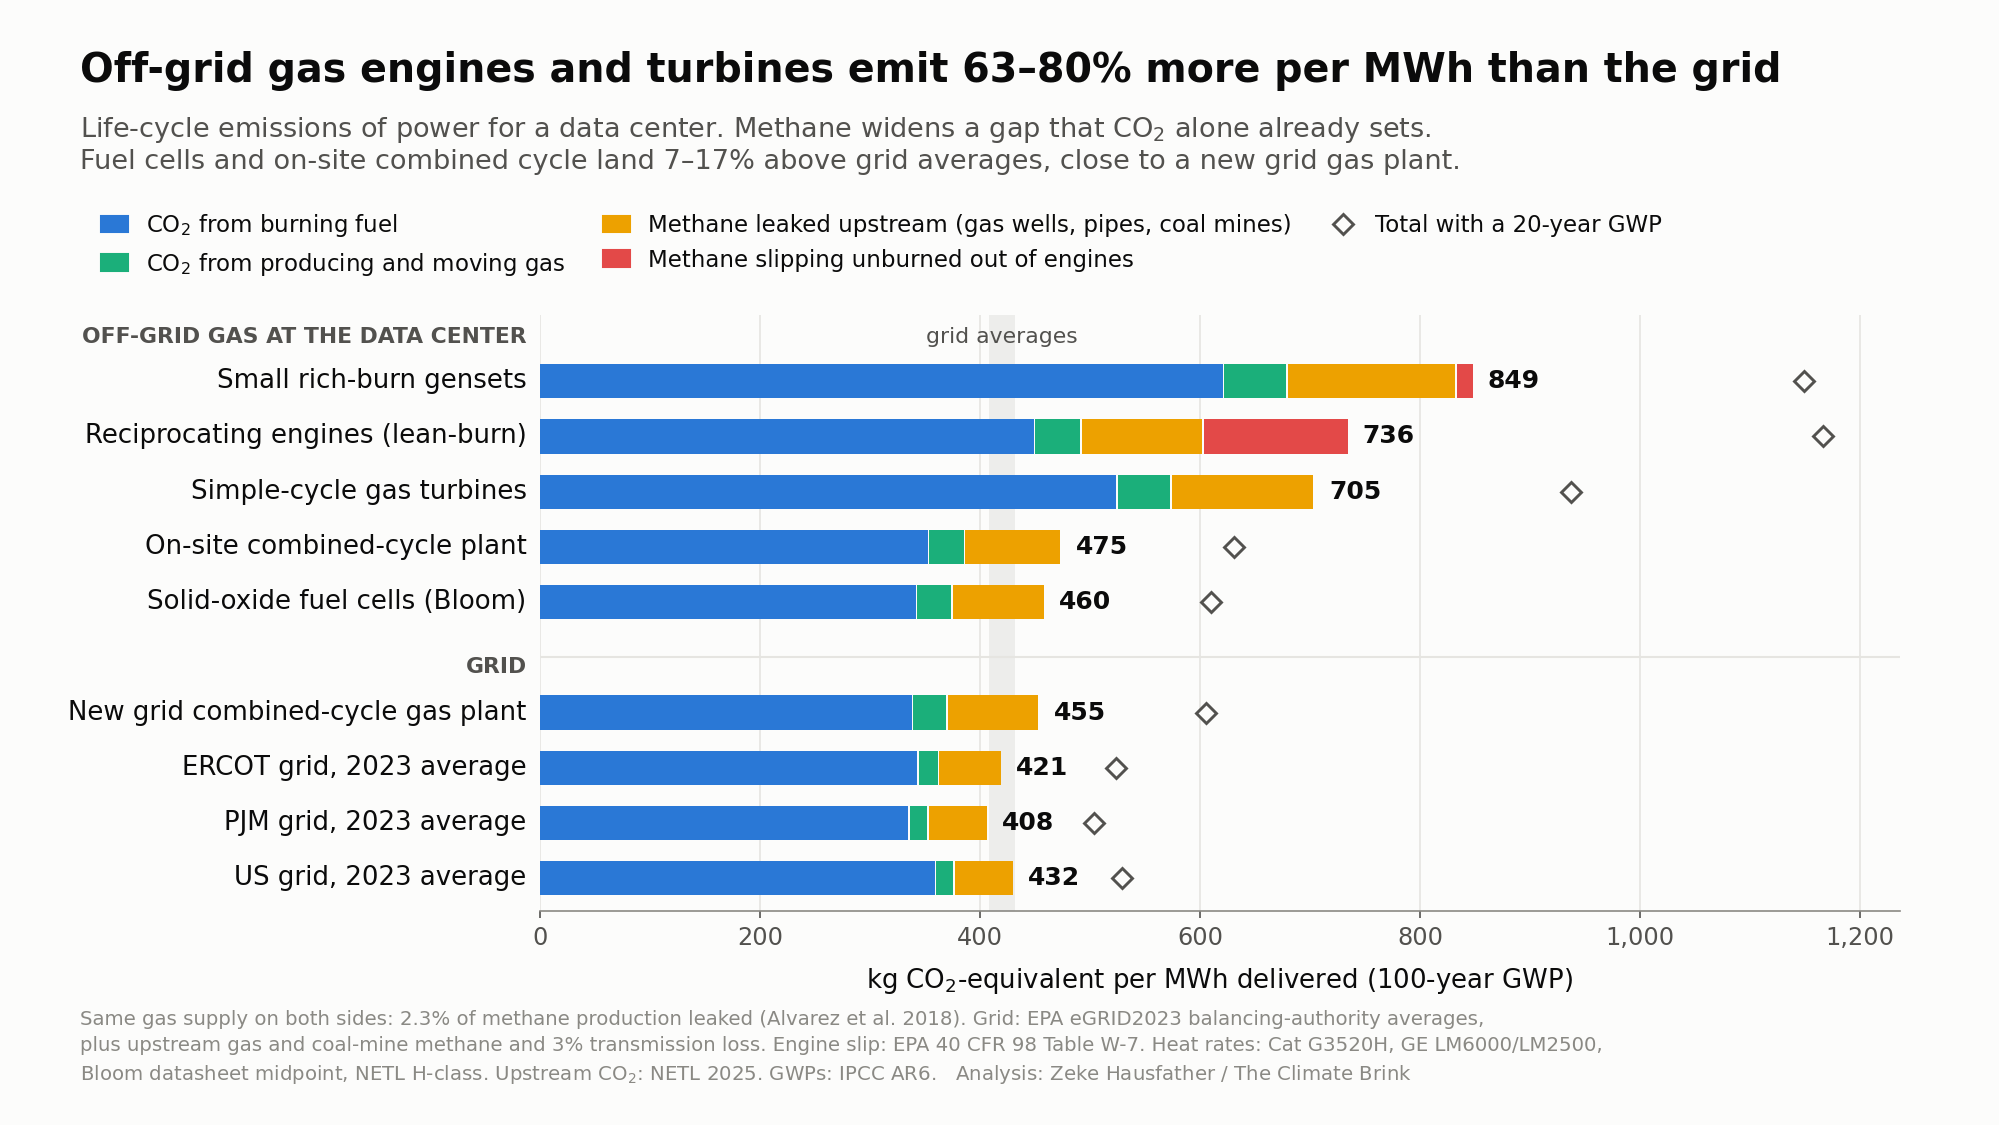
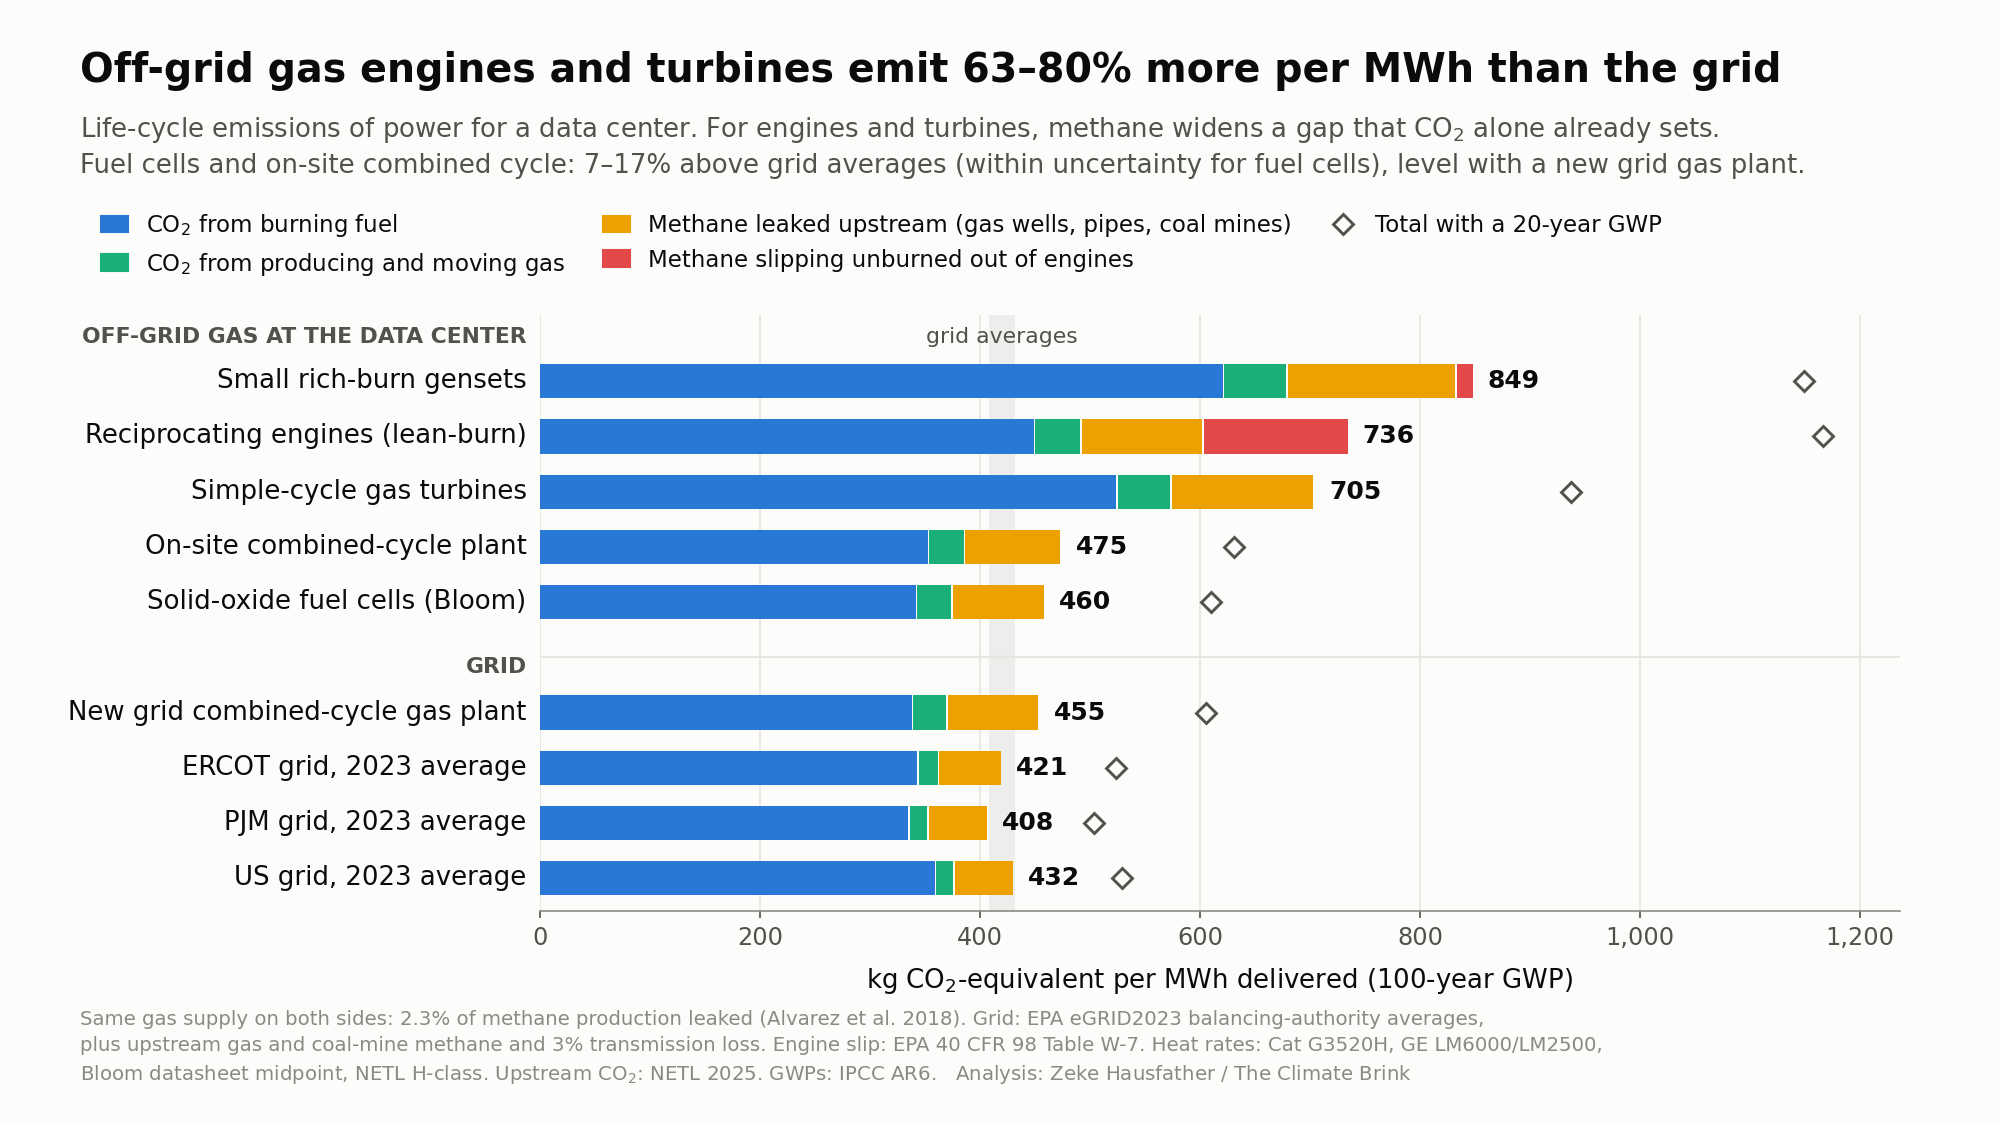
Primary test output, prediction vs outcome, draft post, README, license

Changed region(s): [[0.031, 0.0933, 0.8994, 0.1556]]

diff --git a/scripts/cases.py b/scripts/cases.py
@@ -150,7 +150,7 @@ be.to_csv(OUT / 'breakeven.csv', index=False)
 # ---------------------------------------------------------------- 4. within-cell correlated Monte Carlo (primary cells)
 rng = np.random.default_rng(20261024)
 N = 20000
-L_d = np.clip(rng.normal(L_PRIMARY, 0.0035, N), 0.001, None)       # Alvarez 2.3% (+0.4/-0.3)
+L_d = np.clip(rng.normal(L_PRIMARY, 0.0035, N), 0.001, None)       # judgment spread (wider than Alvarez's 95% CI +0.4/-0.3, sd~0.18%)
 mf_d = rng.uniform(0.884, 0.970, N)
 f_d = rng.uniform(0.08, 0.11, N)
 gch4_d = np.clip(rng.normal(29.8, 11 / 1.645, N), 5, None)         # AR6 GWP100 fossil CH4 +/- 11 (5-95%)
@@ -184,6 +184,19 @@ dec['state_co2_band'] = [band_verdict(a, b, w) for a, b, w in zip(dec.btm_co2, d
 dec['state_full_band'] = [band_verdict(a, b, w) for a, b, w in zip(dec.btm_full, dec.ref_full, dec.tie_band)]
 dec.to_csv(OUT / 'decision_table.csv', index=False, float_format='%.3f')
 
+# pre-registered primary test (PLAN §6): BTM is worse than the grid iff it is 'above' both reference A and reference B
+prim = []
+for (reg, c), g in dec.groupby(['region', 'case'], sort=False):
+    a_, b_ = g.set_index('reference').loc['A'], g.set_index('reference').loc['B']
+    prim.append(dict(region=reg, case=c,
+                     co2_only_vs_A=a_.state_co2_band, co2_only_vs_B=b_.state_co2_band,
+                     worse_than_grid_co2_only=(a_.state_co2_band == 'above') and (b_.state_co2_band == 'above'),
+                     full_vs_A=a_.state_full_band, full_vs_B=b_.state_full_band,
+                     worse_than_grid_full=(a_.state_full_band == 'above') and (b_.state_full_band == 'above'),
+                     p_above_A=a_.p_btm_above, p_above_B=b_.p_btm_above))
+prim = pd.DataFrame(prim)
+prim.to_csv(OUT / 'primary_test.csv', index=False, float_format='%.3f')
+
 # ---------------------------------------------------------------- 5. one-at-a-time sensitivities (efficient cases)
 sens = []
 for c in ['Fuel cells (Bloom SOFC)', 'Combined cycle (on site)']:
@@ -214,6 +227,7 @@ pd.DataFrame(sens).to_csv(OUT / 'sensitivities.csv', index=False, float_format='
 
 if __name__ == '__main__':
     pd.set_option('display.width', 250, 'display.max_columns', 30, 'display.max_rows', 200)
+    print(prim.to_string())
     print(dec[['region', 'reference', 'case', 'rel_gap_co2', 'rel_gap_full', 'tie_band', 'state_co2_band', 'state_full_band',
                'gap_from_ch4', 'p_btm_above']].round(3).to_string())
     print(be[(be.gwp == 'AR6_20')].to_string())

diff --git a/scripts/make_figure.py b/scripts/make_figure.py
@@ -95,9 +95,9 @@ eff = d[d.case.isin(['Fuel cells (Bloom SOFC)', 'Combined cycle (on site)'])]
 elo, ehi = [int(v * 100 + 0.5) for v in (eff.rel_gap_full.min(), eff.rel_gap_full.max())]
 fig.text(0.04, 0.955, f'Off-grid gas engines and turbines emit {lo:.0f}–{hi:.0f}% more per MWh than the grid',
          fontsize=19, fontweight='bold', color=INK, va='top')
-fig.text(0.04, 0.898, f'Life-cycle emissions of power for a data center. Methane widens a gap that CO$_2$ alone already sets.\n'
-         f'Fuel cells and on-site combined cycle land {elo:.0f}–{ehi:.0f}% above grid averages, close to a new grid gas plant.',
-         fontsize=13, color=INK2, va='top')
+fig.text(0.04, 0.898, f'Life-cycle emissions of power for a data center. For engines and turbines, methane widens a gap that CO$_2$ alone already sets.\n'
+         f'Fuel cells and on-site combined cycle: {elo}–{ehi}% above grid averages (within uncertainty for fuel cells), level with a new grid gas plant.',
+         fontsize=12.5, color=INK2, va='top', linespacing=1.4)
 fig.text(0.04, 0.035,
          'Same gas supply on both sides: 2.3% of methane production leaked (Alvarez et al. 2018). Grid: EPA eGRID2023 balancing-authority averages,\n'
          'plus upstream gas and coal-mine methane and 3% transmission loss. Engine slip: EPA 40 CFR 98 Table W-7. Heat rates: Cat G3520H, GE LM6000/LM2500,\n'

diff --git a/README.md b/README.md
@@ -1,0 +1,43 @@
+# Off-grid gas for data centers vs the grid, with methane
+
+How do behind-the-meter (BTM) gas plants for data centers compare with grid power, per MWh delivered, once engine methane slip and
+upstream leakage count? Does methane change the ranking, or only the size of the gap?
+
+**Answer (GWP100, 2.3% methane leakage on both sides):**
+- Reciprocating engines and simple-cycle turbines emit 63–80% more than the ERCOT, PJM and US grid averages. They are already 31–63% higher on CO2 alone, so methane widens the gap without creating it.
+- Fuel cells and on-site combined cycle come in 7–17% above the grid averages and level with a new grid combined-cycle plant.
+- Methane changes no verdict under the pre-registered test.
+
+See `METHODS.md` for the full results and caveats and `PLAN.md` for the frozen pre-analysis plan and its change log.
+
+![figure](figures/offgrid_gas_vs_grid.png)
+
+## Pipeline
+```bash
+cd scripts
+python3.13 v1_netl_check.py      # validation: reproduce NETL Rev1 NGCC (-0.9%)
+python3.13 grid.py               # eGRID2023 + Cambium 2024 -> data/grid_inputs.json (needs the two xlsx files)
+python3.13 v2_frost.py           # Frost Methane fleet-number consistency
+python3.13 cases.py              # case table, primary test, break-even leak rates, Monte Carlo, sensitivities
+python3.13 v3_fair_metrics.py    # FaIR pulse check vs AR6 metrics
+python3.13 fair_fleet.py         # FaIR fleet-scale runs (~5 min)
+python3.13 make_figure.py        # figures/offgrid_gas_vs_grid.png
+```
+Requirements: Python 3.13, numpy, pandas, scipy, matplotlib, openpyxl, and fair==2.2.2.
+
+`data/grid_inputs.json` is committed, so `cases.py` and the figure run without the raw workbooks. To rebuild from scratch, download these into `data/`:
+- `egrid/egrid2023_data_rev2.xlsx` from https://www.epa.gov/egrid/download-data
+- `cambium/Cambium24_Workbook.xlsx` from https://data.nlr.gov/submissions/289
+- `fair_calib/calibrated_constrained_parameters.csv` from Zenodo record 17424050 (the other calibration CSVs are committed)
+
+## Data sources and licenses
+| Source | Terms |
+|---|---|
+| EPA eGRID, EPA AP-42, 40 CFR 98 | US government works, public domain |
+| NREL/NLR Cambium 2024 | public |
+| FaIR calibration data (Smith et al., Zenodo 17424050) | cite Smith et al. 2024, GMD 17, 8569 |
+| NETL Rev1 (DOE/NETL-2025/4933) | public |
+
+Vendor data sheets (Caterpillar, GE Vernova, Bloom, Generac, Wärtsilä, INNIO) are cited, not redistributed. `sources/` holds notes and the pages we read.
+
+Code: MIT license.

diff --git a/METHODS.md b/METHODS.md
@@ -106,13 +106,34 @@ generation share × (CO2 output rate ÷ CO2 input rate) for each fuel.
 
   | Parameter | Distribution |
   |---|---|
-  | L | Normal(2.3%, 0.35%) |
+  | L | Normal(2.3%, 0.35%): a judgment spread, wider than the Alvarez 95% CI (+0.4/−0.3, sd ≈ 0.18%); the extra width widens tie bands, which works in BTM's favor |
   | CH4 mass fraction | U(0.884, 0.970) |
   | f | U(0.08, 0.11) |
   | GWP100 CH4 | Normal(29.8, 6.7) |
   | Grid loss | U(2%, 5%) |
   | BTM heat rate | uniform over the case range |
   | Recip slip | U(0.24, 0.65) |
+
+## Primary test (pre-registered: BTM is worse than the grid only if it is above both the grid average and a new grid NGCC)
+`results/primary_test.csv`, GWP100, L = 2.3%, MC-widened tie bands:
+
+| Case | ERCOT | PJM | US | Does methane change the verdict? |
+|---|---|---|---|---|
+| Recip engines | worse (already on CO2 alone) | worse (already on CO2 alone) | worse (already on CO2 alone) | no: it widens the gap by 159–188 kg/MWh |
+| Simple-cycle turbines | worse (already on CO2 alone) | worse | worse | no: +47–75 kg/MWh |
+| Small rich-burn gensets | worse (already on CO2 alone) | worse | worse | no |
+| On-site combined cycle | not worse (above A, tied with B) | not worse (above A, tied B) | not worse (tied A on CO2, above A with CH4; tied B) | not under the primary test; against A alone, CH4 flips the US cell from tied to above |
+| Bloom SOFC | not worse (tied A and B) | not worse (tied A on CO2, above A with CH4; tied B) | not worse (tied both) | not under the primary test; against A alone, CH4 flips PJM from tied to above |
+
+Methane changes **no** primary verdict. Against a new grid NGCC (B), the efficient options burn about the same gas, so CH4 adds only 0.2–3.6 kg/MWh to that gap.
+The MC probabilities of being above are:
+
+| Case | P(above A) by region | P(above B) |
+|---|---|---|
+| SOFC | 0.93 (ERCOT), 0.99 (PJM), 0.82 (US) | 0.53 |
+| CC | 1.00 | 0.91 |
+
+The SOFC result mainly reflects heat rate: the start-to-end-of-life efficiency band, 5.81–7.13 MMBtu/MWh, drives the spread.
 
 ## Results (GWP100, L = 2.3%)
 | | kg CO2e/MWh | vs grid averages (ERCOT, PJM, US) | vs new grid NGCC |

diff --git a/PLAN.md b/PLAN.md
@@ -208,3 +208,11 @@ Each is run one at a time from the primary cell. A tornado plot covers CC and SO
 **2026-10-24, after the first run of `cases.py`: how the tie band is applied.** §7 said to widen the 5% band "if the MC 90% interval of the difference is larger" but did not say how.
 Implemented as follows: each cell's band is max(5%, half-width of that cell's MC 90% interval of the relative gap, full state), and the same band is applied to the CO2-only and full states.
 Both the 5%-band and the widened-band verdicts are kept in `results/decision_table.csv` (`state_*` and `state_*_band`).
+
+**Prediction vs outcome (recorded 2026-10-24 after the run):**
+| Prediction (§7) | Outcome |
+|---|---|
+| Recip, simple cycle and rich-burn are above in every primary cell, already in the CO2-only state | **Correct.** All are above A and B in all regions on CO2 alone (+31–93%) |
+| Against B, every BTM case is above or tied | **Correct.** CC and SOFC are tied with B (+4.3%, +1.0%) |
+| Against A in ERCOT/PJM, CC and SOFC are tied or slightly below on CO2 and move toward above with CH4 | **Partly wrong.** CC is already above A on CO2 in ERCOT (+6.9% vs band 5.9%) and PJM (+9.9% vs 6.2%). SOFC is tied on CO2 (+3.6%, +6.5%), stays tied in ERCOT and becomes above in PJM. Neither is below anywhere |
+| Methane is what decides it for the efficient options | **Wrong under the primary two-condition test.** No primary verdict changes, because the efficient options tie a new grid NGCC with or without CH4. Against A alone, CH4 flips 2 of 6 efficient-case cells (SOFC/PJM, CC/US) from tied to above |
